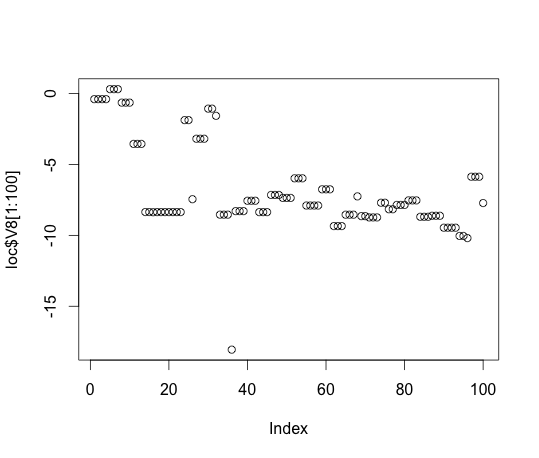
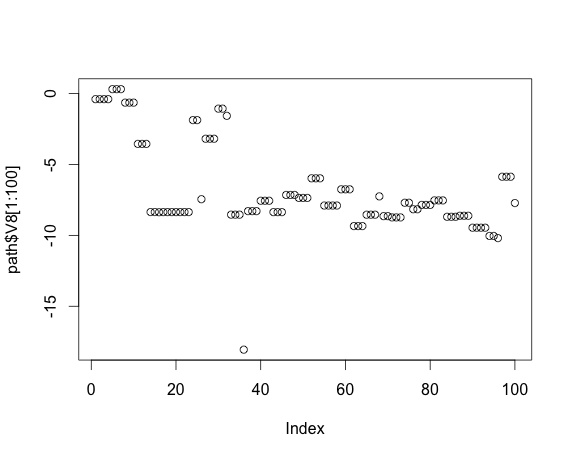
many more changes

diff --git a/blog/aug302014/tracker.html b/blog/aug302014/tracker.html
@@ -68,8 +68,7 @@
 <p>These files need a bit of work to be in a usable format. The first thing to look at is the structure of the file. It has a first line containing ‘--- LOG START --- ’</p>
 
 
-<pre class="r"><code>
-readLines('LOG_2014-08-30_11-59-00K330_3-axis_Accelerometer.log', 1)</code></pre>
+<pre class="r"><code>readLines('LOG_2014-08-30_11-59-00K330_3-axis_Accelerometer.log', 1)</code></pre>
 <pre><code>## [1] &quot;--- LOG START  --- &quot;</code></pre>
 </div>
 
@@ -82,14 +81,14 @@ readLines('LOG_2014-08-30_11-59-00K330_3-axis_Accelerometer.log', 1)</code></pre
 firstLine &lt;- readLines(log, 1)
 skip &lt;- if ( firstLine == &quot;--- LOG START  --- &quot;) 1 else 0
   
-loc &lt;- read.csv(log, skip = skip)
+path &lt;- read.csv(log, skip = skip)
 </code></pre>
 
 <p>We can also see a few other issues. We only have one column, so the file must nout use commas, it uses semicolons as delimeters. We can also see the horrible names, so the file has no header. This is pretty easy to clean up</p>
 
-<pre class="r"><code>loc &lt;- read.csv(log, sep = ';', header = F, skip = skip, stringsAsFactors = F)
+<pre class="r"><code>path &lt;- read.csv(log, sep = ';', header = F, skip = skip, stringsAsFactors = F)
 
-str(loc)</code></pre>
+str(path)</code></pre>
 <pre><code>## 'data.frame':    5967 obs. of  11 variables:
 ##  $ V1 : int  1269 1290 1311 1332 1353 1374 1395 1416 1437 1458 ...
 ##  $ V2 : chr  &quot;2014-08-30_11-59-00.732&quot; &quot;2014-08-30_11-59-01.997&quot; &quot;2014-08-30_11-59-03.233&quot; &quot;2014-08-30_11-59-04.495&quot; ...
@@ -102,7 +101,7 @@ str(loc)</code></pre>
 ##  $ V9 : num  3.09 3.09 3.09 3.09 1.45 ...
 ##  $ V10: num  8.95 8.95 8.95 8.95 9.77 ...
 ##  $ V11: logi  NA NA NA NA NA NA ...</code></pre>
-<pre class="r"><code>plot(loc$V8[1:100])</code></pre>
+<pre class="r"><code>plot(path$V8[1:100])</code></pre>
 
 
 
@@ -111,27 +110,27 @@ str(loc)</code></pre>
 <p>A few other issues we have with this data are that column one is really the timestamp but it comes in as a character. The V3 field is really an artifact of having a double delimeter where the optional sensor values appear. We have the same thing with V11 as each line ends with a delimeter. We can just remove these two. We should also give the fields some better names.</p>
 <pre class="r"><code>library(lubridate)
 # There are two semi colons in a row 
-  loc$V3 &lt;- NULL
+  path$V3 &lt;- NULL
   # The line ends with a semi colon
-  loc$V11 &lt;- NULL
+  path$V11 &lt;- NULL
   
-  names(loc) &lt;- c('inc', 'timestamp', 'lat', 'long', 'alt', 'acc', 'x', 'y', 'z')
+  names(path) &lt;- c('inc', 'timestamp', 'lat', 'long', 'alt', 'acc', 'x', 'y', 'z')
   
-  loc$date &lt;- as.Date(substr(loc$timestamp, 1, 10))
-  loc$time &lt;- ymd_hms(loc$timestamp)</code></pre>
-<p>We should also create an index field, the first field currently is the number of milliseconds from teh start time.</p>
+  path$date &lt;- as.Date(substr(path$timestamp, 1, 10))
+  path$time &lt;- ymd_hms(path$timestamp)</code></pre>
+<p>We should also create an index field, the first field currently is the number of milliseconds from the start time. It is also a good idea to turn everything that should be a number into a number.</p>
 <pre class="r"><code>loc$ind &lt;- seq(nrow(loc))
 
-isNum &lt;- lapply(c(3:9), function(x) class(loc[, x]))
+isNum &lt;- lapply(c(3:9), function(x) class(path[, x]))
 any('character' %in% isNum)</code></pre>
 <pre><code>## [1] FALSE</code></pre>
 <pre class="r"><code>for (i in c(3:9)) {
-  loc[, i] &lt;- as.numeric(loc[, i])
+  path[, i] &lt;- as.numeric(path[, i])
 }
 
-loc$LatLong &lt;- paste(loc$lat, loc$long, sep = ':')
+path$LatLong &lt;- paste(path$lat, path$long, sep = ':')
 
-str(loc)</code></pre>
+str(path)</code></pre>
 <pre><code>## 'data.frame':    5967 obs. of  13 variables:
 ##  $ inc      : int  1269 1290 1311 1332 1353 1374 1395 1416 1437 1458 ...
 ##  $ timestamp: chr  &quot;2014-08-30_11-59-00.732&quot; &quot;2014-08-30_11-59-01.997&quot; &quot;2014-08-30_11-59-03.233&quot; &quot;2014-08-30_11-59-04.495&quot; ...
@@ -146,43 +145,40 @@ str(loc)</code></pre>
 ##  $ time     : POSIXct, format: &quot;2014-08-30 11:59:00&quot; &quot;2014-08-30 11:59:01&quot; ...
 ##  $ ind      : int  1 2 3 4 5 6 7 8 9 10 ...
 ##  $ LatLong  : chr  &quot;38.949867:-77.082375&quot; &quot;38.949867:-77.082375&quot; &quot;38.949867:-77.082375&quot; &quot;38.949867:-77.082375&quot; ...</code></pre>
-<p>We should put all of this into a function to read log files in a clean them.</p>
+<p>It is also a really good idea to put all of this into one function that can read log files and clean them in one step.</p>
 <pre class="r"><code>read.log &lt;- function(log) {
-    firstLine &lt;- readLines(log, 1)
+  firstLine &lt;- readLines(log, 1)
   skip &lt;- if ( firstLine == &quot;--- LOG START  --- &quot;) 1 else 0
   # These are seperated by semicolons and skip one becuase the first line
   # says log output.
-  loc &lt;- read.csv(log, sep = ';', header = F, skip = skip, stringsAsFactors = F)
+  path &lt;- read.csv(log, sep = ';', header = F, skip = skip, stringsAsFactors = F)
   
   # There are two semi colons in a row 
-  loc$V3 &lt;- NULL
+  path$V3 &lt;- NULL
   # The line ends with a semi colon
-  loc$V11 &lt;- NULL
+  path$V11 &lt;- NULL
   
-  names(loc) &lt;- c('inc', 'timestamp', 'lat', 'long', 'alt', 'acc', 'x', 'y', 'z')
+  names(path) &lt;- c('inc', 'timestamp', 'lat', 'long', 'alt', 'acc', 'x', 'y', 'z')
   
-  loc$date &lt;- as.Date(substr(loc$timestamp, 1, 10))
-  loc$time &lt;- ymd_hms(loc$timestamp)
-  loc$ind &lt;- seq(nrow(loc))
+  path$date &lt;- as.Date(substr(path$timestamp, 1, 10))
+  path$time &lt;- ymd_hms(path$timestamp)
+  path$ind &lt;- seq(nrow(path))
   
   # These fields should all be numbers.
   for (i in c(3:9)) {
     # Suppress warnings when NA values are introduced.
-    suppressWarnings(loc[, i] &lt;- as.numeric(loc[, i]))
+    suppressWarnings(path[, i] &lt;- as.numeric(path[, i]))
   }
   
-  loc$LatLong &lt;- paste(loc$lat, loc$long, sep = ':')
+  path$LatLong &lt;- paste(path$lat, path$long, sep = ':')
   
-  loc
+  path
 }
+</code></pre>
+<p>Before I do anything with the sensor data I really want to look at it on a map.</p>
+<pre class="r"><code>library(googleVis)
 
-
-#x &lt;- read.log('LOG_2014-04-11_07-47-03_Subway.log')
-#x &lt;- read.log('LOG_2014-04-06_20-39-37_Random.log')</code></pre>
-<p>Before we do anything with the sensor data I want to look at it on a map.</p>
-<pre class="r"><code>library(googleVis)</code></pre>
-
-<pre class="r"><code>plotGPS &lt;- function(path, v = 10) {
+plotGPS &lt;- function(path, v = 10) {
   if (v == -1) v &lt;- nrow(path)
   if (v &gt; nrow(path)) v &lt;- nrow(path)
   nn &lt;- list(LatLong = path$LatLong[1:v], Tip = path$timestamp[1:v])
@@ -197,34 +193,34 @@ str(loc)</code></pre>
   plot(m)
 }
 
-x &lt;- read.log('LOG_2014-08-30_11-59-00K330_3-axis_Accelerometer.log')
+path &lt;- read.log('LOG_2014-08-30_11-59-00K330_3-axis_Accelerometer.log')
 
+<p>That looks awesome, but we see a problem if we try to look at the whole path, or really any more than I have here.</p>
 
-plotGPS(x, v = 500)</code></pre>
-
-<div style="text-align:center;"> <iframe src="http://darrkj.github.io/home/blog/aug302014/plot" width="650" height="450"></iframe></div>
-
-
-<pre class="r"><code>plotGPS(x, v = 3000)</code></pre>
-
+plotGPS(path, v = 500)</code></pre>
 
 <div style="text-align:center;"> <iframe src="http://darrkj.github.io/home/blog/aug302014/plot" width="650" height="450"></iframe></div>
 
 
-<pre><code>## starting httpd help server ... done</code></pre>
-<p>It looks like there is an upper limit to the numer of points I can place on the map. I can downsample it by doing the following.</p>
-<pre class="r"><code>plotGPS(x[seq(1, 5800, 16), ], v = 5900)</code></pre>
+<pre class="r"><code>plotGPS(path, v = 3000)</code></pre>
+
+
+<div style="text-align:center;"> <iframe src="http://darrkj.github.io/home/blog/aug302014/plot" width="650" height="450"></iframe></div>
+
+
+<p>It looks like there is an upper limit to the number of points I can place on the map. The map looks exactly the same and it is a clear giveaway when it says in the top left corner that some data was truncated. I can downsample it by doing the following.</p>
+<pre class="r"><code>plotGPS(path[seq(1, 5800, 16), ], v = 5900)</code></pre>
 
 
 
 <div style="text-align:center;"> <iframe src="http://darrkj.github.io/home/blog/aug302014/plot2" width="650" height="450"></iframe></div>
 
 
-<p>We can do much better by just removing points that have the same latitude and longitude, this was a point in time where I was standing still.</p>
+<p> That is pretty rough though. We can do much better by just removing points that have the same latitude and longitude, this was a point in time where I was standing still.</p>
 
 
-<pre class="r"><code>xx &lt;- x[!duplicated(x$LatLong), ]
-plotGPS(xx[seq(1, 1625, 8), ], v = -1)</code></pre>
+<pre class="r"><code>newPath &lt;- path[!duplicated(x$LatLong), ]
+plotGPS(newPath[seq(1, 1625, 8), ], v = -1)</code></pre>
 
 
 <div style="text-align:center;"> <iframe src="http://darrkj.github.io/home/blog/aug302014/plot3" width="650" height="450"></iframe></div>
